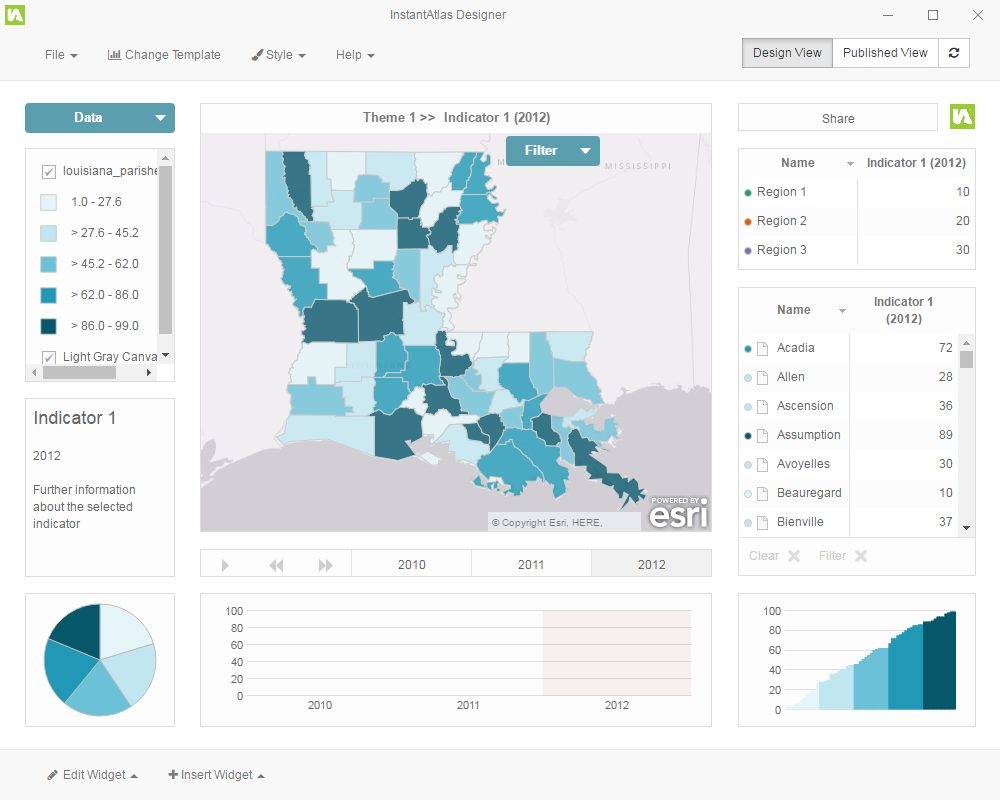
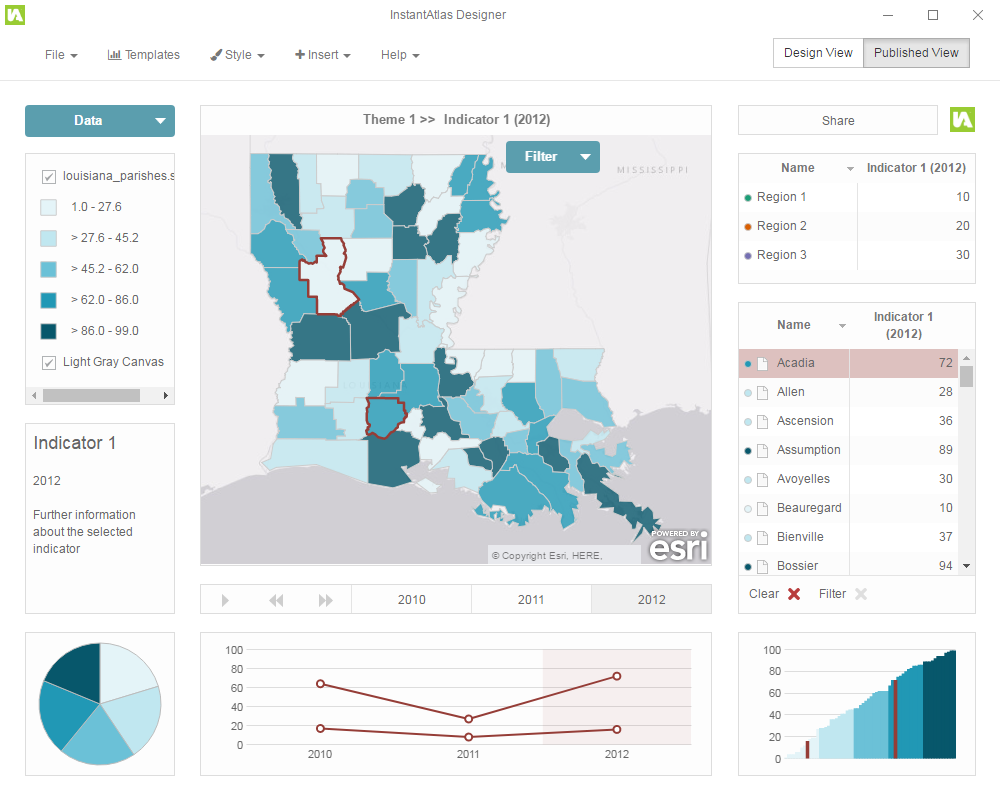
Release v0.0.142

diff --git a/src/index.html b/src/index.html
@@ -120,9 +120,9 @@
                                 <li><a id="iad-menuitem-exit" href="#">Exit</a></li>
                             </ul>
                         </li>
-                        <li><a id="iad-menuitem-config-gallery" href="#"><i class="fa fa-bar-chart"></i>&nbsp;Templates</a></li>
+                        <li><a id="iad-menuitem-config-gallery" href="#">Templates</a></li>
                         <li class="dropdown">
-                            <a href="#" class="dropdown-toggle" data-toggle="dropdown" role="button" aria-haspopup="true" aria-expanded="false"><span class="fa fa-paint-brush"></span>&nbsp;Style&nbsp;<span class="caret"></span></a>
+                            <a href="#" class="dropdown-toggle" data-toggle="dropdown" role="button" aria-haspopup="true" aria-expanded="false">Style&nbsp;<span class="caret"></span></a>
                             <ul id="iad-dropdown-styles" class="dropdown-menu">
                                 <li><a id="iad-menuitem-open-color-scheme" href="#">Colour Scheme</a></li>
                                 <li><a id="iad-menuitem-open-css" href="#">Edit Styles</a></li>
@@ -131,7 +131,7 @@
                             </ul>
                         </li>
                         <li class="dropdown">
-                            <a href="#" class="dropdown-toggle" data-toggle="dropdown" role="button" aria-haspopup="true" aria-expanded="false"><span class="fa fa-plus"></span>&nbsp;Insert&nbsp;<span class="caret"></span></a>
+                            <a href="#" class="dropdown-toggle" data-toggle="dropdown" role="button" aria-haspopup="true" aria-expanded="false">Insert&nbsp;<span class="caret"></span></a>
                             <ul id="iad-dropdown-insert" class="dropdown-menu">
                                 <li><a id="iad-menuitem-insert-text" href="#">Text</a></li>
                                 <li><a id="iad-menuitem-insert-image" href="#">Image</a></li>
@@ -192,7 +192,7 @@
                             <!-- populated by designner.main.js updateWidgetPropertiesDropdown() -->
                         </ul>                
                     </div>
-                    <div class="btn-group"> 
+                    <div id="iad-widget-controls" class="btn-group"> 
                         <button id="iad-btn-widget-send-to-back" type="button" class="btn btn-default btn-sm" title="Send To Back"><span class="fa-stack" style="height: 1em; line-height: 1em;"><i class="fa fa-square fa-stack-1x" style="left: -0.15em;top: -0.15em;"></i><i class="fa fa-square fa-inverse fa-stack-1x"></i><i class="fa fa-square-o fa-stack-1x" style="left: 0.1em;top: 0.15em;"></i></span></button>
                         <button id="iad-btn-widget-bring-to-front" type="button" class="btn btn-default btn-sm" title="Bring To Front"><span class="fa-stack" style="height: 1em; line-height: 1em;"><i class="fa fa-square-o fa-stack-1x" style="left: -0.15em;top: -0.15em;"></i><i class="fa fa-square fa-stack-1x"></i></span></button>
                         <button id="iad-btn-widget-remove" type="button" class="btn btn-default btn-sm" style="color:#ff0000" title="Remove Widget"><i class="fa fa-trash-o"></i></button>
@@ -245,7 +245,7 @@
                 <div class="modal-content">
                     <div class="modal-header">
                         <button type="button" class="close" data-dismiss="modal" aria-hidden="true">&times;</button>
-                        <h4 class="modal-title"><span class="fa fa-bar-chart"></span>&nbsp;&nbsp;Templates</h4>
+                        <h4 class="modal-title">Templates</h4>
                     </div>
                     <div class="modal-body modal-body-scrollable">
                         <div id="iad-config-gallery">
@@ -263,7 +263,7 @@
                 <div class="modal-content">
                     <div class="modal-header">
                         <button type="button" class="close" data-dismiss="modal" aria-hidden="true">&times;</button>
-                        <h4 class="modal-title"><span class="fa fa-fw fa-bar-chart"></span>&nbsp;&nbsp;Widgets</h4>
+                        <h4 class="modal-title">Widgets</h4>
                     </div>
                     <div class="modal-body modal-body-scrollable">
                         <div id="iad-widget-gallery">

diff --git a/src/js/iadesigner.main.js b/src/js/iadesigner.main.js
@@ -27,6 +27,7 @@ var iadesigner = (function (iad, $, bootbox, window, document, undefined)
     var $sidebarCss = $('#iad-sidebar-css');
     var $sidebarColorscheme = $('#iad-sidebar-colorscheme');
     var $editBtn = $('#iad-btn-widget-edit');
+    var $widgetControls = $('#iad-widget-controls');
 
     var selectedWidgetId;
     var widgetPropertiesAreDisplayed = false;
@@ -641,6 +642,7 @@ var iadesigner = (function (iad, $, bootbox, window, document, undefined)
 
     function editGeneralProperties()
     {
+        $widgetControls.hide();
         if (widgetPropertiesAreDisplayed)
         {
             var title = iad.report.getDisplayName('PropertyGroup');
@@ -651,6 +653,7 @@ var iadesigner = (function (iad, $, bootbox, window, document, undefined)
 
     function editWidgetProperties(widgetId)
     {
+        $widgetControls.show();
         if (widgetPropertiesAreDisplayed)
         {
             var title = iad.report.getDisplayName(widgetId);
